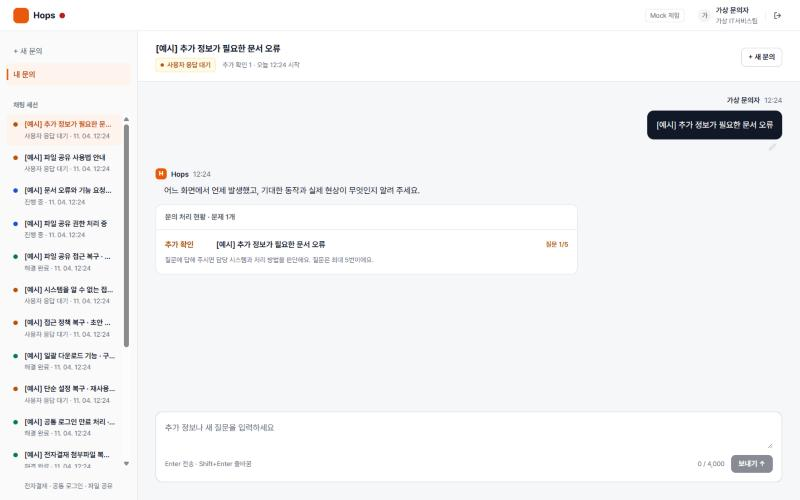
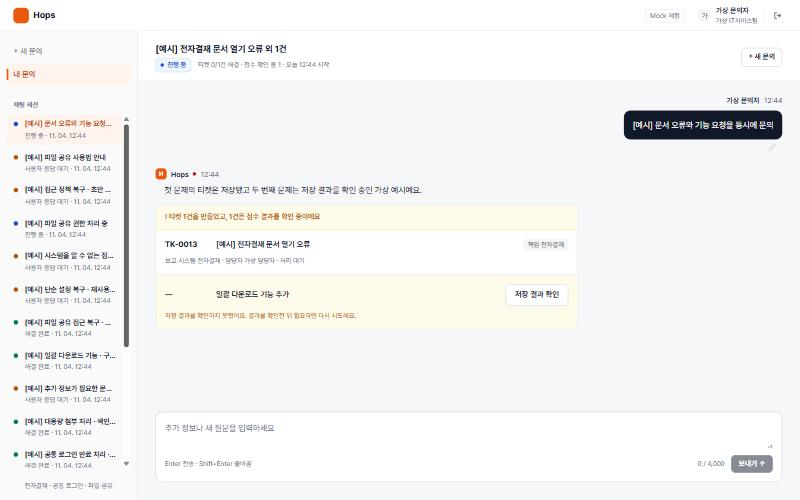
fix(realtime): 연결 상태 점을 채팅의 Hops 라벨 옆으로 이동
리뷰 의견에 따라 연결 상태를 헤더 로고가 아닌 채팅 안에서 보여 준다.
가장 최근 Hops 답변 라벨 옆에 6px 점을 두고, 분석 중에는 진행 표시의
Hops 라벨에 둔다. 메시지마다 점이 반복되지 않도록 한 곳에만 표시한다.
헤더 레이아웃 변경은 되돌렸다.

검증: typecheck·lint·format·vitest 통과, Mock 데모 채팅 화면에서 세 상태 확인

Refs #147

diff --git a/frontend/src/features/chat/components/SystemChatView.tsx b/frontend/src/features/chat/components/SystemChatView.tsx
@@ -1,6 +1,7 @@
 import { Fragment, useRef, useState } from 'react';
 import { Link } from 'react-router';
 import { useSession } from '@/features/auth';
+import { ConnectionIndicator } from '@/features/realtime';
 import {
   SystemCommandButton,
   SystemResultPanel,
@@ -68,6 +69,8 @@ export function SystemChatView({ inquiryId }: { inquiryId: string }) {
   if (!inquiry) return null;
   const closed = ['RESOLVED', 'CLOSED'].includes(inquiry.status);
   const title = inquiryTitle(inquiry, chat.items.find((m) => m.sender === 'USER')?.content);
+  // 연결 상태 점은 가장 최근 Hops 라벨 하나에만 둔다. 분석 중에는 진행 표시의 라벨에 둔다.
+  const lastAiId = chat.items.filter((m) => m.sender === 'AI').at(-1)?.id;
   const meta = [
     ...resultMetaParts(inquiry),
     `${isToday(inquiry.createdAt) ? '오늘 ' : ''}${displayChatTime(inquiry.createdAt)} 시작`,
@@ -153,6 +156,7 @@ export function SystemChatView({ inquiryId }: { inquiryId: string }) {
                   </span>
                 )}
                 <strong>{message.sender === 'USER' ? userName : 'Hops'}</strong>
+                {!chat.active && message.id === lastAiId && <ConnectionIndicator />}
                 <time dateTime={message.createdAt}>{displayChatTime(message.createdAt)}</time>
               </div>
               <div className={message.sender === 'USER' ? styles.userBubble : styles.aiBubble}>
@@ -172,6 +176,7 @@ export function SystemChatView({ inquiryId }: { inquiryId: string }) {
                 H
               </span>
               <strong>Hops</strong>
+              <ConnectionIndicator />
               <span>{chat.run?.status === 'QUEUED' ? '분석 대기' : '분석 중'}</span>
             </div>
             <ProgressSteps key={chat.run?.id} steps={steps} />

diff --git a/frontend/src/app/layouts/AppLayout.tsx b/frontend/src/app/layouts/AppLayout.tsx
@@ -4,7 +4,7 @@ import { NavLink, Outlet, useNavigate } from 'react-router';
 import { useQuery, useQueryClient } from '@tanstack/react-query';
 import { useEffect, useState } from 'react';
 import { logout, refreshSession, useSession } from '@/features/auth';
-import { ConnectionIndicator, RealtimeBoundary } from '@/features/realtime';
+import { RealtimeBoundary } from '@/features/realtime';
 import { RecentInquiries } from '@/features/inquiry';
 import { getSystems } from '@/features/ticket';
 import { Button } from '@/shared/ui/Button';
@@ -49,13 +49,10 @@ export function AppLayout() {
   return (
     <div className={styles.shell}>
       <header className={styles.header}>
-        <div className={styles.brandGroup}>
-          <NavLink className={styles.brand} to="/">
-            <span aria-hidden="true" />
-            Hops
-          </NavLink>
-          <ConnectionIndicator />
-        </div>
+        <NavLink className={styles.brand} to="/">
+          <span aria-hidden="true" />
+          Hops
+        </NavLink>
         {connectionMode() === 'mock' && <span className={styles.mock}>Mock 체험</span>}
         <div className={styles.user}>
           <span className={styles.avatar}>{user.name.slice(0, 1)}</span>

diff --git a/frontend/src/app/layouts/AppLayout.module.css b/frontend/src/app/layouts/AppLayout.module.css
@@ -10,11 +10,6 @@
   gap: var(--space-3);
   padding: 0 var(--space-6);
 }
-.brandGroup {
-  display: flex;
-  align-items: center;
-  gap: var(--space-2);
-}
 .brand {
   display: flex;
   align-items: center;
@@ -196,7 +191,7 @@
   .header {
     gap: var(--space-2);
   }
-  .brandGroup {
+  .brand {
     margin-right: auto;
   }
 }

diff --git a/frontend/src/test/systemChat.test.tsx b/frontend/src/test/systemChat.test.tsx
@@ -9,6 +9,7 @@ import type { ChatMessage, InquiryResult, RunSummary } from '@/shared/api/types/
 
 vi.mock('@/features/realtime', () => ({
   useSubscription: () => ({ denied: false, state: 'connected' }),
+  ConnectionIndicator: () => null,
 }));
 vi.mock('@/shared/realtime', () => ({ realtime: { on: () => () => undefined } }));
 

diff --git a/frontend/src/features/realtime/components/ConnectionIndicator.module.css b/frontend/src/features/realtime/components/ConnectionIndicator.module.css
@@ -1,8 +1,8 @@
 .dot {
   display: inline-block;
   flex: none;
-  width: 10px;
-  height: 10px;
+  width: 6px;
+  height: 6px;
   padding: 0;
   border: 0;
   border-radius: 50%;

diff --git a/docs/frontend/README.md b/docs/frontend/README.md
@@ -58,7 +58,7 @@ PRD 1.44의 구체 계약은 [공통 계약](../../specs/contracts/README.md)·[
 
 `connected`는 스트림 연결과 현재 권한·최신 REST 조회 복구가 모두 완료된 상태다. 스트림이 정상이어도 초기 REST 조회가 실패하면 `connecting`을 유지해 보호 내용을 가린다. 이때 스트림은 이벤트를 계속 수신하며 조회 화면에서 실패를 안내한다. 수동 재연결 후 REST 복구까지 성공하면 `connected`로 전환한다. `resync.required` 이후 필수 REST 복구 실패는 연결을 중단하고 사용자의 재시도를 기다린다.
 
-연결 상태는 본문을 밀어내는 패널 대신 헤더의 `Hops` 옆 점으로 표시한다. `connected`는 초록, `connecting`은 회색, `disconnected`는 빨강이며 빨간 점을 누르면 수동 재연결한다. 구독이 없는 `idle`은 표시하지 않는다.
+연결 상태는 본문을 밀어내는 패널 대신 채팅의 가장 최근 `Hops` 라벨 옆 작은 점으로 표시한다. 분석 중에는 진행 표시의 `Hops` 라벨에 둔다. `connected`는 초록, `connecting`은 회색, `disconnected`는 빨강이며 빨간 점을 누르면 수동 재연결한다. 구독이 없는 `idle`은 표시하지 않는다.
 
 ## ERD 대조 후 프론트 구현 범위
 
